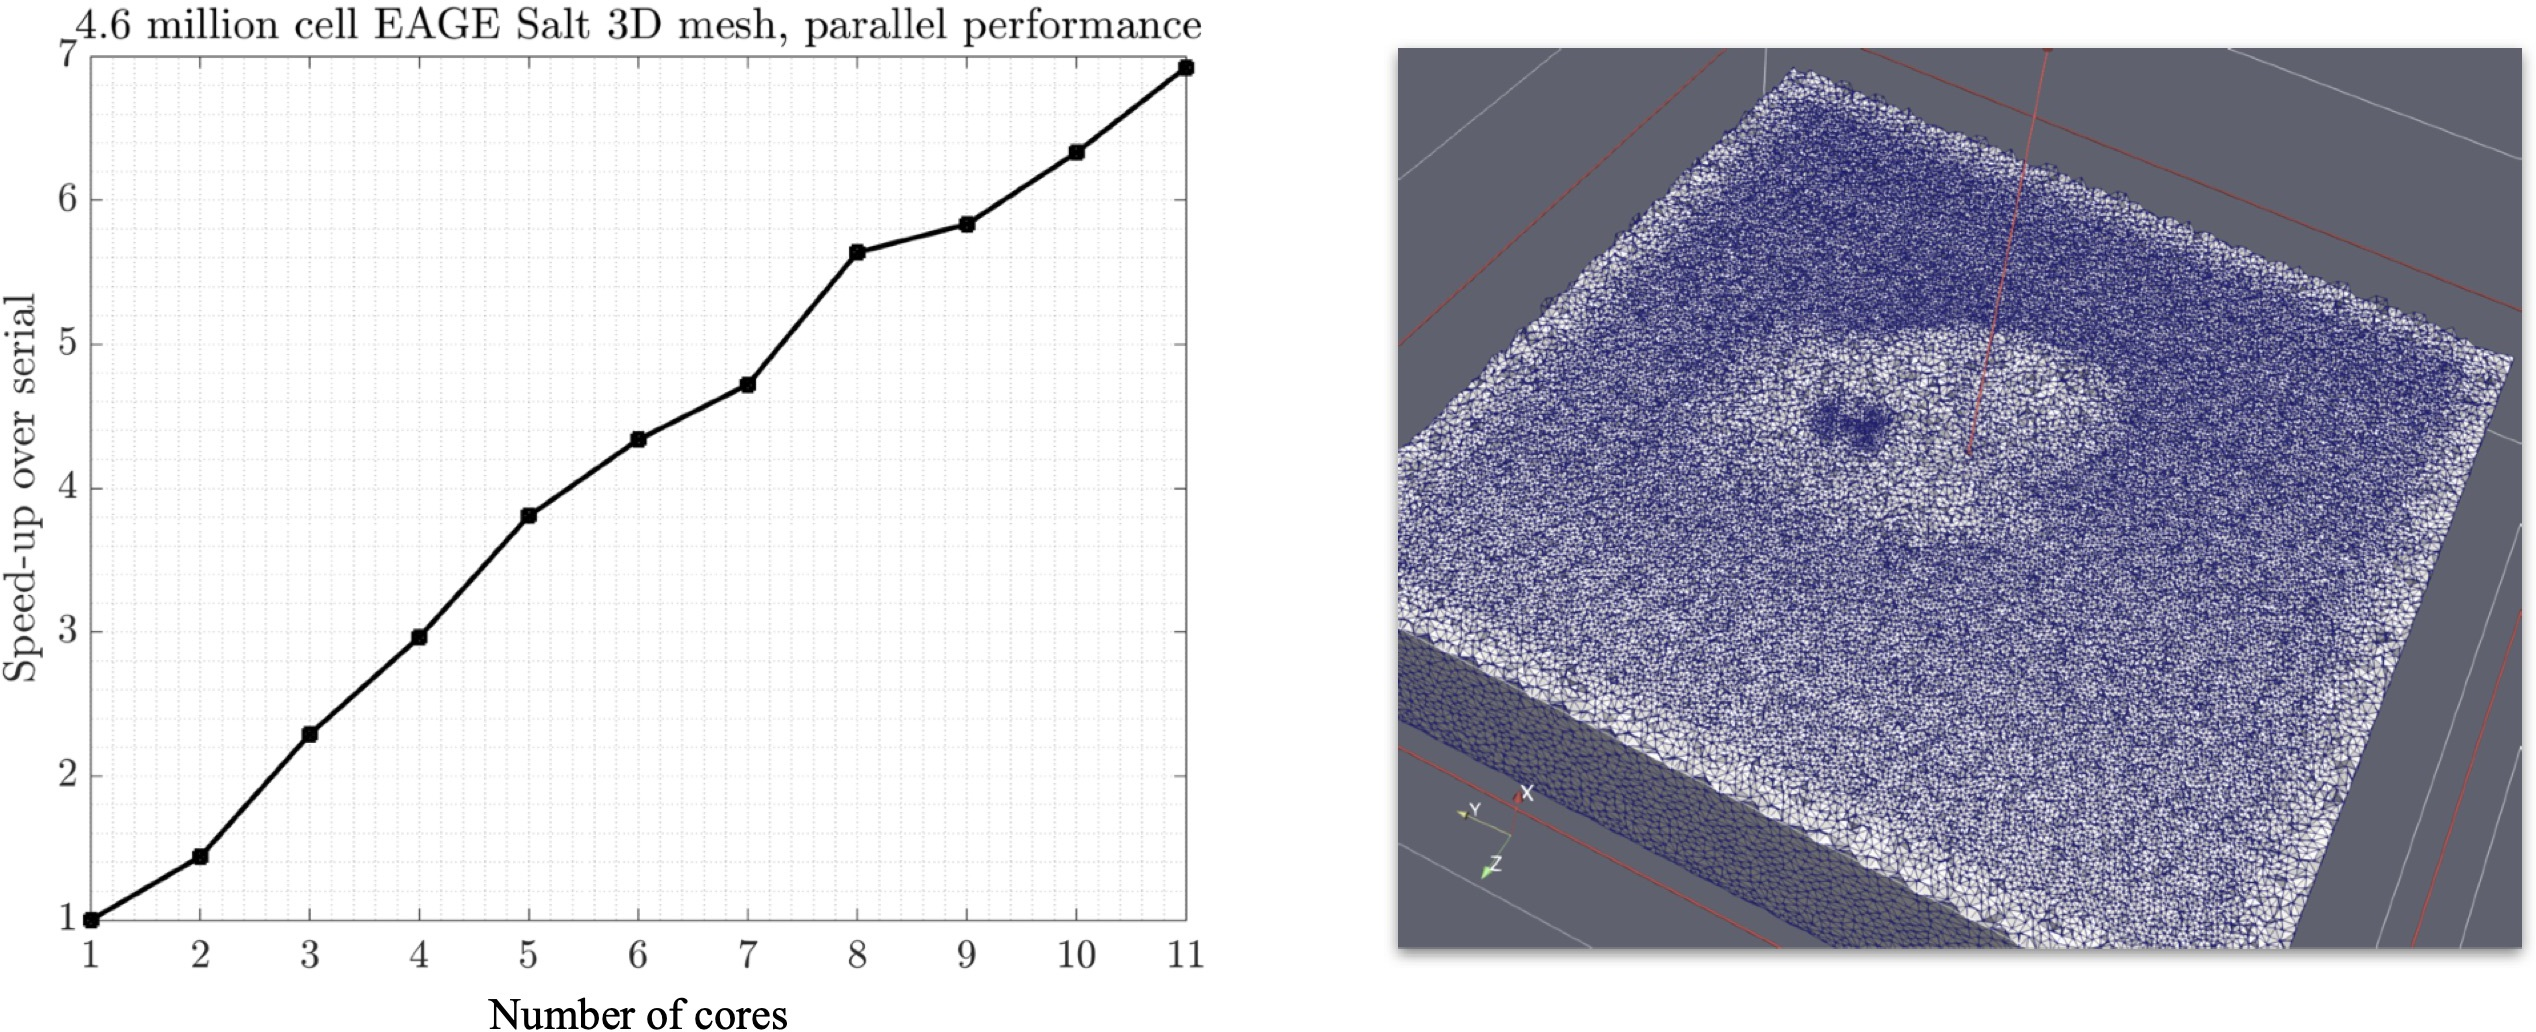
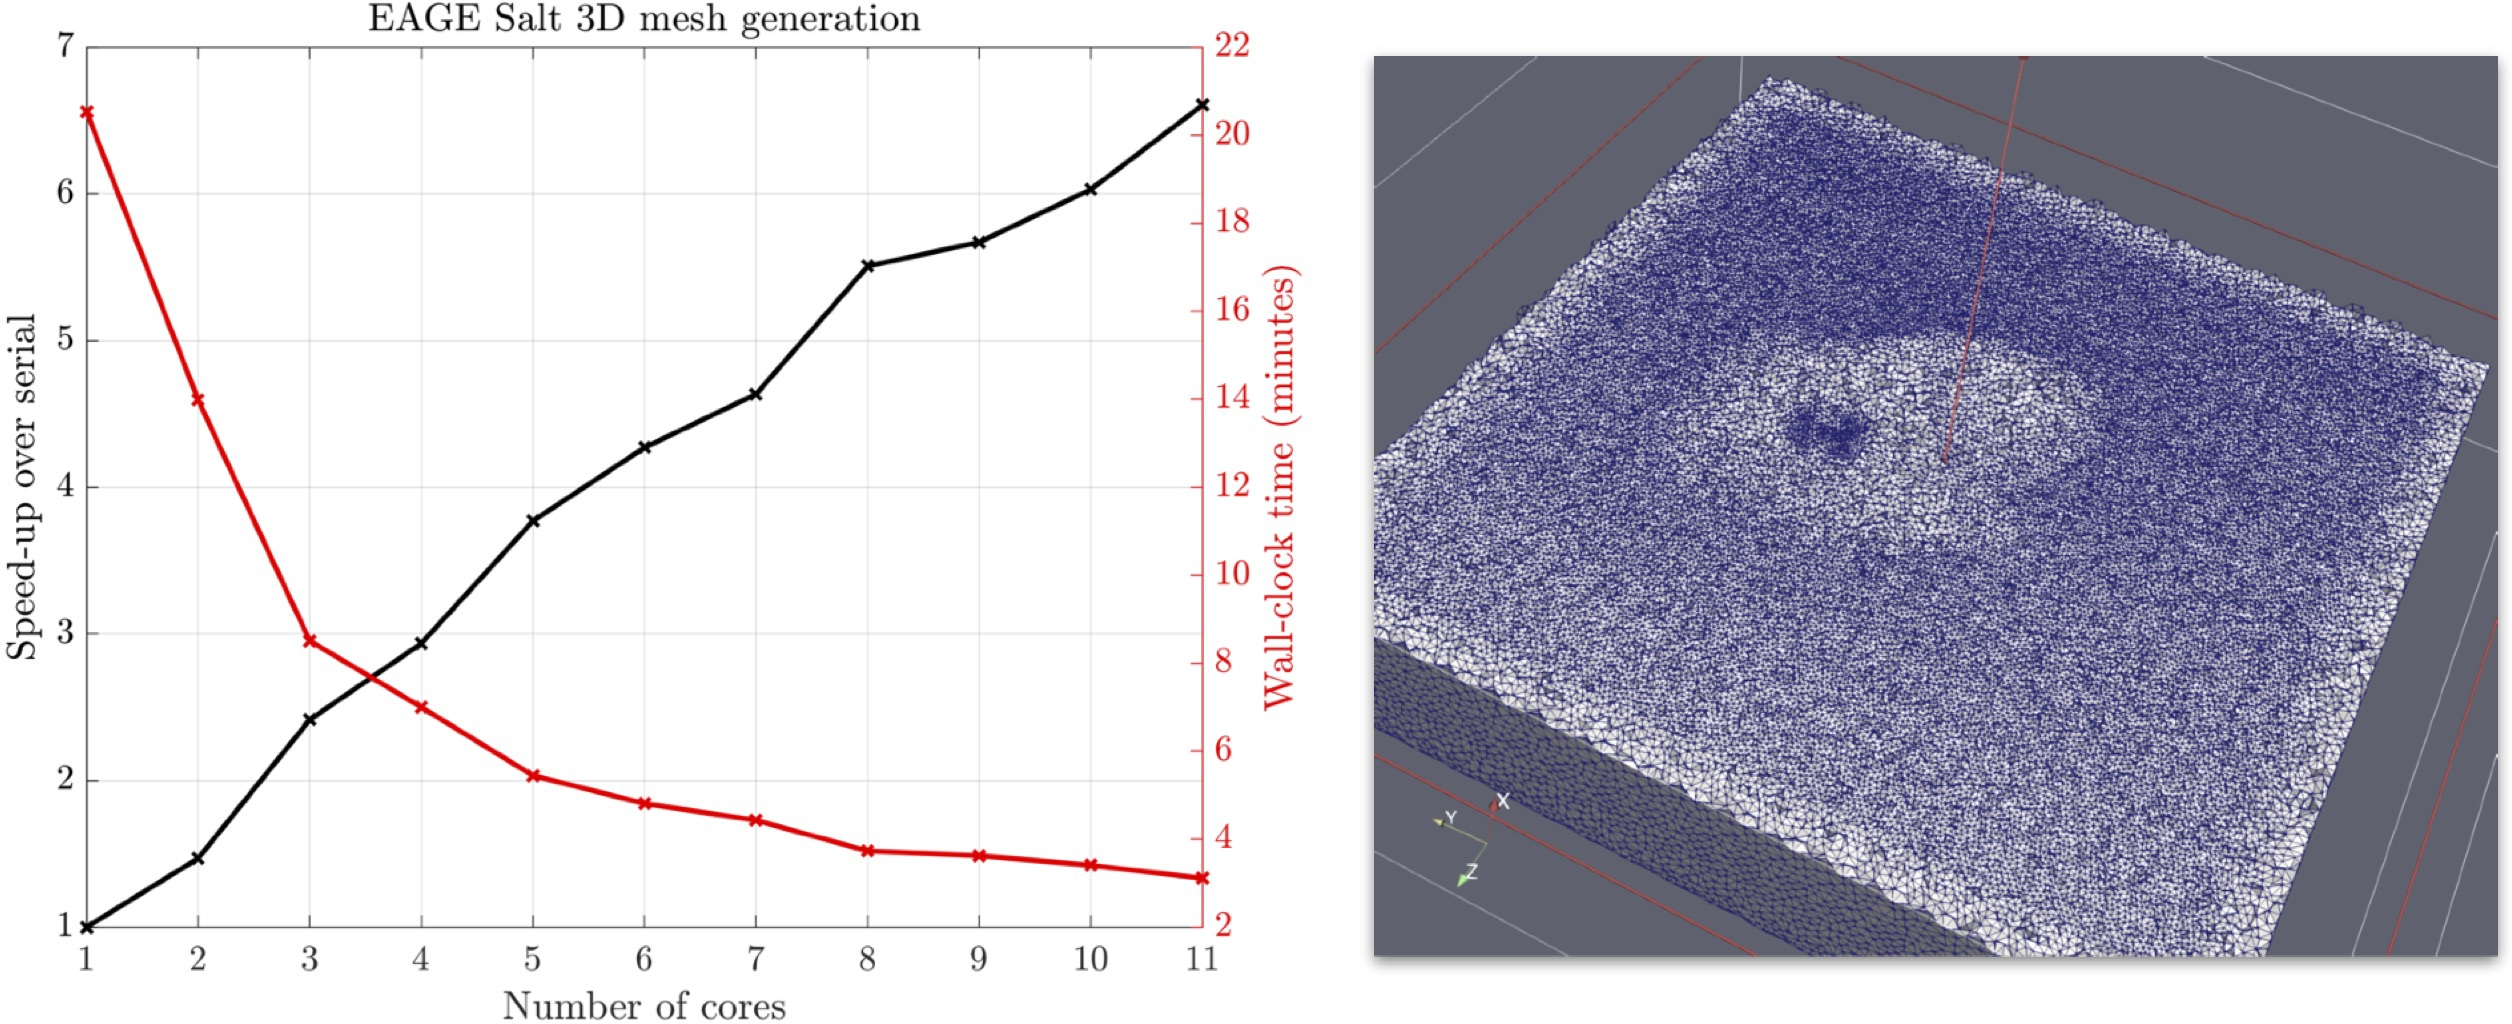
upadting figure and corresponding text

diff --git a/paper/paper.md b/paper/paper.md
@@ -54,21 +54,21 @@ In `SeismicMesh`, the domain geometry is defined as the 0-level set of a signed 
 
 # Parallelism
 
-One motivation for parallelism in applications such as time-domain FWI and RTM is that relatively high source frequencies are required (e.g., 5-7 Hz) to produce high-resolution seismic velocity images. Depending on the spatial polynomial order of the finite elements, these models require a minimum number of 5 to 10 vertices per wavelength of the source wavelet to ensure the subsequent numerical simulation can be considered numerically accurate. However, this can make the generation of tetrahedral meshes prohibitively computationally expensive for a realistic 3D inversion domain. For example, a 3D mesh of a benchmark FWI model EAGE Salt [@doi:10.1190/1.1437283] requires 507,862 cells when resolving a 2 Hz source frequency using 5 vertices per wavelength. For the same model discretized for source wavelet with a peak frequency of 4 Hz, the tetrahedral mesh increases in number of cells by a factor of approximately 8 (approximately 4,082,978 cells).
+One motivation for parallelism in applications such as time-domain FWI and RTM is that relatively high source frequencies are used (e.g., 5-7 Hz) to produce high-resolution seismic velocity images. These models require a minimum number of 5 to 10 vertices per wavelength of the source wavelet to ensure the subsequent numerical simulation is numerically accurate. However, this can make the generation of tetrahedral meshes prohibitively computationally expensive for a realistic 3D inversion domain. For example, a 3D mesh of a benchmark FWI model EAGE Salt [@doi:10.1190/1.1437283] requires 507,862 cells when resolving a 2 Hz source frequency using 5 vertices per wavelength. For the same model discretized for source wavelet with a peak frequency of 4 Hz, the tetrahedral mesh increases in number of cells by a factor of approximately 8 (approximately 4,082,978 cells).
 
-Parallelism enables the rapid generation of high-quality meshes for FWI and RTM applications feasible on the order of minutes. \autoref{fig:speedup} shows a peak speed-up of approximately 7 times using 11 cores when performing 50 meshing iterations with `SeismicMesh` to generate a 4 million cell mesh. The machine used was 2 Intel Xeon Gold 6148 clocked at 2.4 GHz (40 cores in total, 27 MB cache, 10.4 GT/s) with 192 GB of RAM connected together with a 100 Gb/s InfiniBand network.
+Thus, parallelism enables the rapid generation of high-quality meshes for FWI and RTM applications on the order of minutes. \autoref{fig:speedup} shows a peak speed-up of approximately 6.60 times using 11 cores when performing 50 meshing iterations with `SeismicMesh` to generate an approximately 4 million cell mesh. The usage of 11 cores reduces the generation time of this example from 20 minutes to approximately 2 wall-clock minutes. The scability of the mesh generation algorithm is primarily limited by the size of the slices and fails if the slice becomes too thin relative to the maximum element size [@doi:10.1137/S003614450342912]. The machine used was 2 Intel Xeon Gold 6148 clocked at 2.4 GHz (40 cores in total, 27 MB cache, 10.4 GT/s) with 192 GB of RAM connected together with a 100 Gb/s InfiniBand network.
 
 
-NOTE TO SELF: ADD WALL-CLOCK TIMES HERE
-
-![Speed-up and wall-clock time in seconds measured when generating a 3D mesh (approximately 4.6 M cells) for the EAGE Salt seismic velocity model as compared to the sequential version of the program. The panel on the right hand side shows the a slice through the center of the generated mesh. \label{fig:speedup}](Performance.jpg)
+![Speed-up (left-axis) as compared to the sequential version of the program and wall-clock time in minutes to generate a 3D mesh (approximately 4.6 M cells) for the EAGE Salt seismic velocity model. The panel on the right hand side shows the a slice through the center of the generated mesh. \label{fig:speedup}](Performance.jpg)
 
 
 # Future applications
 
-The ability to perform distributed memory parallelism, the Python wrapper for CGAL, and the ability to remove degenerate 3D elements represent  significant improvements to the `DistMesh` algorithm. Much like how `DistMesh` has already been used, it can be applied to many domains besides seismology. To use the mesh generation capabilities standalone, the user only needs to supply their own mesh sizing function and signed distance function.
+Here are some future applications for this software:
 
-The usage of SDF to define the meshing domain present potential use cases in a topology-optimization framework [@laurain2018level] for modeling the sharp interface of salt-bodies in seismological domains. In these applications, the 0-level set of the SDF is used to demarcate the boundary of the feature. Each inversion iteration, updates to an objective functional produce a pertubations to the 0-level set. In this framework, `SeismicMesh` can be embedded within the algorithm to generate and adapt meshes so that they conform to the incremental 0-level sets.
+* Much like how `DistMesh` has been used, `SeismicMesh` can be also applied to many domains besides seismology such as fluid dynamics, astrophysics, and coastal ocean modeling. An open source project project is already under way to use the parallel mesh generation technology for a Python version of OceanMesh2D to build meshes of the global oceans [@roberts2019oceanmesh2d].
+
+* The usage of SDF to define the meshing domain present potential use cases in a topology-optimization framework [@laurain2018level] for modeling the sharp interface of salt-bodies in seismological domains. In these applications, the 0-level set of a SDF is used to demarcate the boundary of the feature. Each inversion iteration, updates to an objective functional produce modifications to the 0-level set. In this framework, `SeismicMesh` can be embedded within the inversion algorithm to generate and adapt meshes so that they conform to the incremental 0-level sets.
 
 
 # Acknowledgements
